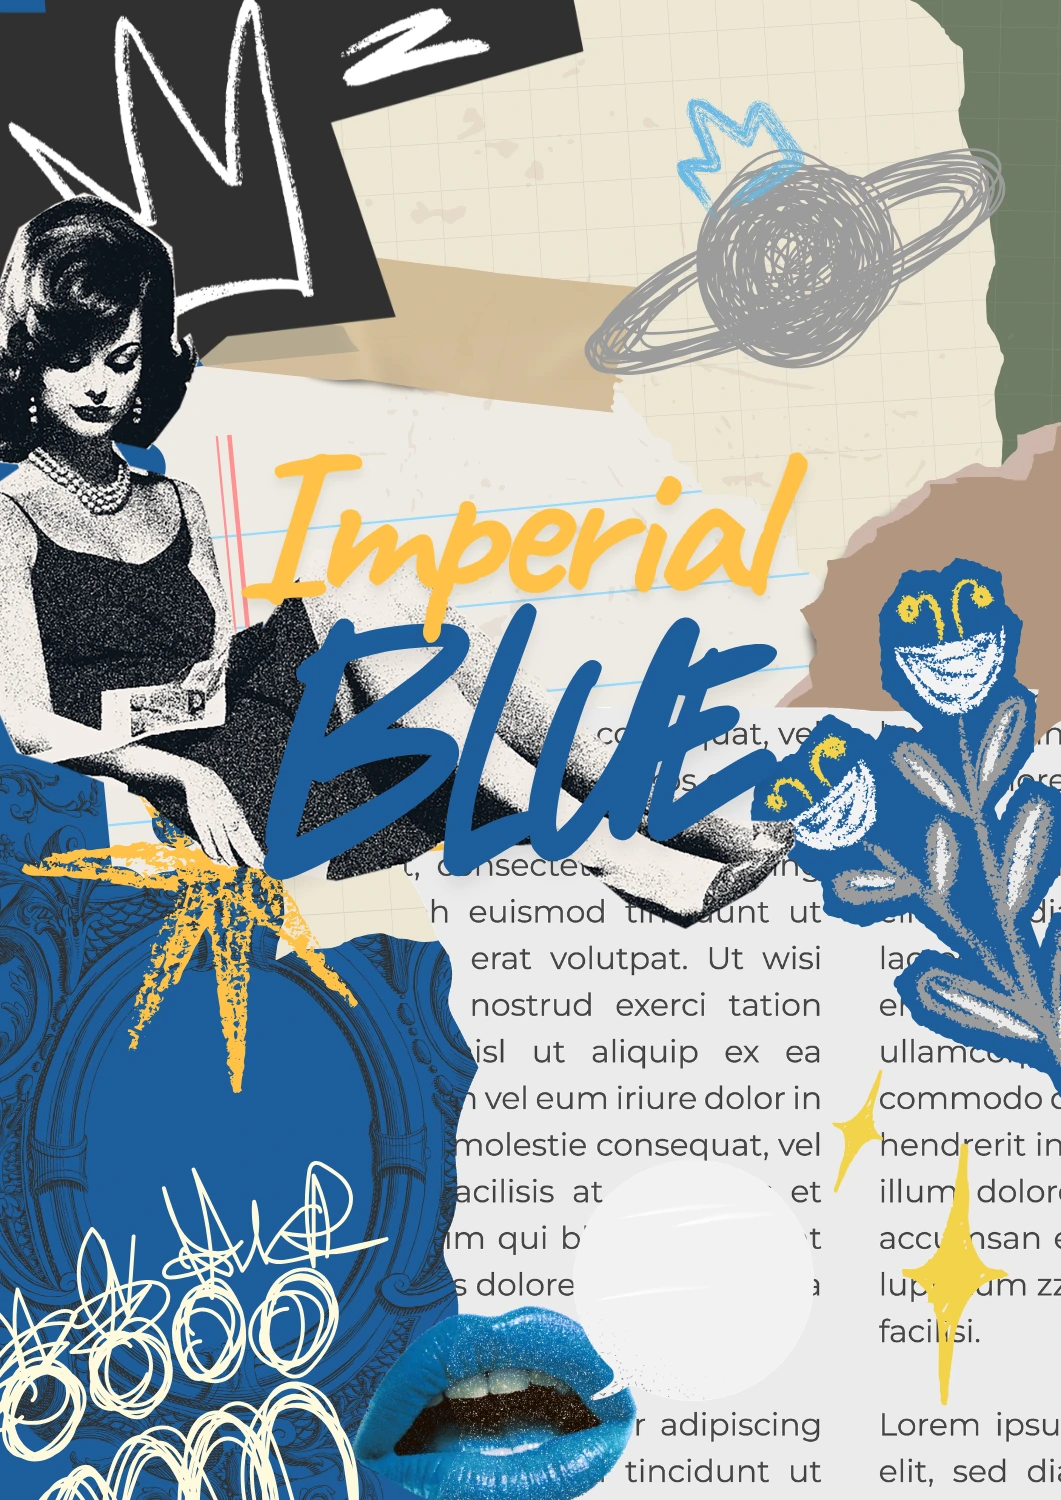
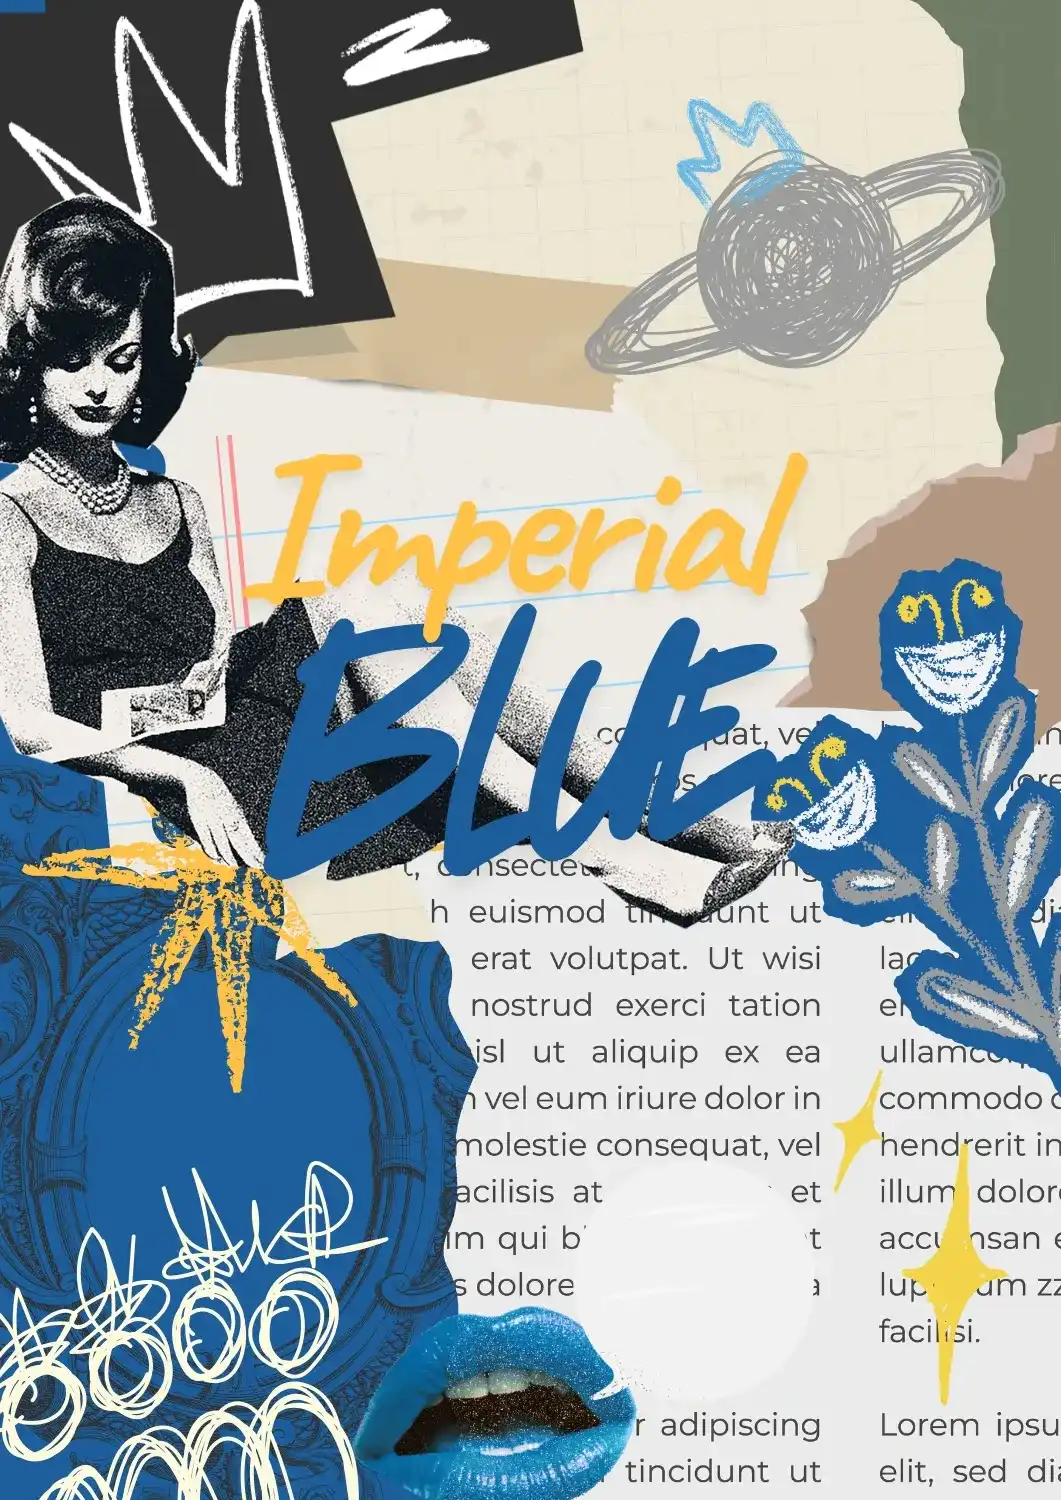
added color filtering and discount code activation

diff --git a/client/src/pages/AllProducts.css b/client/src/pages/AllProducts.css
@@ -423,6 +423,76 @@
     transform 0.3s cubic-bezier(0.25, 1, 0.5, 1);
 }
 
+/* --- COLOR SWATCHES --- */
+.color-swatch-grid {
+  display: grid;
+  grid-template-columns: repeat(4, 1fr);
+  gap: 14px 8px;
+}
+
+.color-swatch-btn {
+  display: flex;
+  flex-direction: column;
+  align-items: center;
+  gap: 7px;
+  background: transparent;
+  border: none;
+  cursor: pointer;
+  padding: 6px 2px;
+  border-radius: 8px;
+  transition: background 0.15s ease;
+}
+
+.color-swatch-btn:hover {
+  background: rgba(0, 0, 0, 0.04);
+}
+
+.swatch-dot {
+  width: 34px;
+  height: 34px;
+  border-radius: 50%;
+  display: block;
+  flex-shrink: 0;
+  /* Subtle inner ring keeps light swatches (white, beige, silver) visible */
+  box-shadow: inset 0 0 0 1px rgba(0, 0, 0, 0.14);
+  transition: box-shadow 0.18s ease, transform 0.18s ease;
+}
+
+/* Active: gold ring outside the dot */
+.color-swatch-btn.active .swatch-dot {
+  box-shadow:
+    inset 0 0 0 1px rgba(0, 0, 0, 0.14),
+    0 0 0 2.5px #fff,
+    0 0 0 4px var(--y2k-gold-dark);
+  transform: scale(1.1);
+}
+
+.swatch-label {
+  font-family: var(--y2k-marker);
+  font-size: 7px;
+  letter-spacing: 0.07em;
+  color: rgba(0, 0, 0, 0.5);
+  text-align: center;
+  text-transform: uppercase;
+  line-height: 1.3;
+  word-break: break-word;
+}
+
+.color-swatch-btn.active .swatch-label {
+  color: #000;
+  font-weight: 700;
+}
+
+/* Colors that have no matching products — shown but not interactive */
+.color-swatch-btn.unavailable {
+  opacity: 0.3;
+  cursor: not-allowed;
+}
+
+.color-swatch-btn.unavailable:hover {
+  background: transparent;
+}
+
 /* Empty state */
 .pdp-empty-state {
   font-family: var(--y2k-marker);

diff --git a/client/src/pages/AllProducts.jsx b/client/src/pages/AllProducts.jsx
@@ -6,6 +6,28 @@ import { SkeletonShopCard } from '../components/SkeletonCard';
 import useInView from '../hooks/useInView';
 import './AllProducts.css';
 
+const CANONICAL_COLORS = [
+  'white', 'yellow', 'orange', 'green', 'blue', 'pastel blue',
+  'purple', 'silver', 'pink', 'red', 'blood red', 'beige', 'gold', 'rose gold',
+];
+
+const COLOR_SWATCHES = {
+  'white':       '#FFFFFF',
+  'yellow':      '#F5D53E',
+  'orange':      '#E8802A',
+  'green':       '#3D9C57',
+  'blue':        '#2B6CB0',
+  'pastel blue': '#A8D1ED',
+  'purple':      '#7C3AED',
+  'silver':      '#A8A9AD',
+  'pink':        '#F472B6',
+  'red':         '#DC2626',
+  'blood red':   '#7B0000',
+  'beige':       '#E8D5B0',
+  'gold':        'linear-gradient(135deg, #C9961B 0%, #F5E17A 50%, #D4AF37 100%)',
+  'rose gold':   'linear-gradient(135deg, #B76E79 0%, #D4A5A5 50%, #C0817D 100%)',
+};
+
 const AllProducts = ({ allProducts, loading, fetchByCollection, fetchAllProducts }) => {
   const navigate = useNavigate();
   const [searchParams] = useSearchParams();
@@ -20,8 +42,21 @@ const AllProducts = ({ allProducts, loading, fetchByCollection, fetchAllProducts
 
   const [activeFilters, setActiveFilters] = useState({
     availability: [],
+    color: [],
     size: [],
   });
+
+  const availableColors = useMemo(() => {
+    const colorsInProducts = new Set(
+      (allProducts || []).flatMap(p => p.colors || [])
+    );
+    return CANONICAL_COLORS.filter(c => colorsInProducts.has(c));
+  }, [allProducts]);
+
+  const totalActiveFilters =
+    activeFilters.availability.length +
+    activeFilters.color.length +
+    activeFilters.size.length;
 
   useEffect(() => {
     const requestedCollection = searchParams.get('collection');
@@ -44,7 +79,7 @@ const AllProducts = ({ allProducts, loading, fetchByCollection, fetchAllProducts
   };
 
   const clearAllFilters = () => {
-    setActiveFilters({ availability: [], size: [] });
+    setActiveFilters({ availability: [], color: [], size: [] });
     setSearchTerm('');
   };
 
@@ -56,10 +91,12 @@ const AllProducts = ({ allProducts, loading, fetchByCollection, fetchAllProducts
           const hasStock = p.variants.some(v => v.stock > 0);
           return status === 'in-stock' ? hasStock : !hasStock;
         });
+      const matchesColor = activeFilters.color.length === 0 ||
+        (p.colors || []).some(c => activeFilters.color.includes(c));
       const matchesSize = activeFilters.size.length === 0 ||
         p.variants.some(v => activeFilters.size.includes(v.title));
 
-      return matchesSearch && matchesAvailability && matchesSize;
+      return matchesSearch && matchesAvailability && matchesColor && matchesSize;
     });
 
     if (sortBy === 'price-low') result.sort((a, b) => parseFloat(a.price) - parseFloat(b.price));
@@ -80,7 +117,7 @@ const AllProducts = ({ allProducts, loading, fetchByCollection, fetchAllProducts
         <div className="utility-inner">
           <div className="utility-left">
             <button className="pdp-filter-trigger" onClick={() => setIsSidebarOpen(true)}>
-              FILTERS
+              FILTERS{totalActiveFilters > 0 ? ` (${totalActiveFilters})` : ''}
             </button>
           </div>
 
@@ -125,6 +162,27 @@ const AllProducts = ({ allProducts, loading, fetchByCollection, fetchAllProducts
                   <input type="checkbox" checked={activeFilters.availability.includes('pre-order')} onChange={() => toggleFilter('availability', 'pre-order')} />
                   <span>MADE TO ORDER</span>
                 </label>
+              </div>
+
+              <div className="filter-section">
+                <h4 className="filter-label">COLOR</h4>
+                <div className="color-swatch-grid">
+                  {CANONICAL_COLORS.map(color => (
+                      <button
+                        key={color}
+                        className={`color-swatch-btn${activeFilters.color.includes(color) ? ' active' : ''}`}
+                        onClick={() => toggleFilter('color', color)}
+                        aria-label={`Filter by ${color}`}
+                        aria-pressed={activeFilters.color.includes(color)}
+                      >
+                        <span
+                          className="swatch-dot"
+                          style={{ background: COLOR_SWATCHES[color] || '#ccc' }}
+                        />
+                        <span className="swatch-label">{color}</span>
+                      </button>
+                  ))}
+                </div>
               </div>
 
               <div className="filter-section">

diff --git a/client/src/components/lib/queries.js b/client/src/components/lib/queries.js
@@ -8,6 +8,19 @@ export const GET_PRODUCTS_QUERY = `
           description
           descriptionHtml
           handle
+          tags
+          colorMetafield: metafield(namespace: "shopify", key: "color-pattern") {
+            value
+            references(first: 10) {
+              edges {
+                node {
+                  ... on Metaobject {
+                    handle
+                  }
+                }
+              }
+            }
+          }
           priceRange {
             minVariantPrice {
               amount
@@ -49,6 +62,19 @@ export const GET_COLLECTION_PRODUCTS = `
             handle
             description
             descriptionHtml
+            tags
+            colorMetafield: metafield(namespace: "shopify", key: "color-pattern") {
+              value
+              references(first: 10) {
+                edges {
+                  node {
+                    ... on Metaobject {
+                      handle
+                    }
+                  }
+                }
+              }
+            }
             priceRange {
               minVariantPrice {
                 amount

diff --git a/client/src/components/lib/shopify.js b/client/src/components/lib/shopify.js
@@ -1,5 +1,21 @@
 import { GET_PRODUCTS_QUERY, GET_SHOP_POLICIES, GET_COLLECTION_PRODUCTS } from './queries';
 
+
+// Parses the Category metafield `colorMetafield.value` into a lowercase string array.
+// Shopify returns metafield values as JSON-encoded strings, e.g.:
+//   '["Orange","Rose gold","Red"]' → ["orange","rose gold","red"]
+// Falls back to comma-splitting for plain (non-JSON) strings.
+const parseMetafieldColors = (rawValue) => {
+  if (!rawValue) return [];
+  try {
+    const parsed = JSON.parse(rawValue);
+    const items = Array.isArray(parsed) ? parsed : [String(parsed)];
+    return items.map(item => String(item).toLowerCase().trim()).filter(Boolean);
+  } catch {
+    return rawValue.split(',').map(s => s.toLowerCase().trim()).filter(Boolean);
+  }
+};
+
 /**
  * Appends Shopify CDN image transformation params.
  * Shopify CDN supports ?width=N&format=webp natively — no extra processing needed.
@@ -57,6 +73,16 @@ const transformShopifyProducts = (edges) =>
       stock: edge.node.quantityAvailable || 0,
       available: edge.node.availableForSale,
     })) || [],
+    colors: (() => {
+      const refEdges = node.colorMetafield?.references?.edges;
+      if (refEdges && refEdges.length > 0) {
+        return refEdges.map(edge =>
+          edge.node.handle.toLowerCase().replace(/-/g, ' ')
+        );
+      }
+
+      return parseMetafieldColors(node.colorMetafield?.value);
+    })(),
   }));
 
 export const fetchProductsByCollection = async (collectionHandle) => {

diff --git a/client/src/components/Navbar.jsx b/client/src/components/Navbar.jsx
@@ -187,9 +187,9 @@ const Navbar = ({ cartCount, onOpenCart, user, onOpenLogin, onLogout, forceSolid
               <div className="mega-column">
                 <h4 className="mega-col-title">SHOP BY LENGTH</h4>
                 <ul className="mega-list">
-                  <li onClick={() => {navigate('/shop?collection=short'); setOpenMenu(null);}}>SHORT SETS</li>
-                  <li onClick={() => {navigate('/shop?collection=medium'); setOpenMenu(null);}}>MEDIUM SETS</li>
-                  <li onClick={() => {navigate('/shop?collection=long'); setOpenMenu(null);}}>LONG SETS</li>
+                  <li onClick={() => {navigate('/shop'); setOpenMenu(null);}}>SHORT SETS</li>
+                  <li onClick={() => {navigate('/shop'); setOpenMenu(null);}}>MEDIUM SETS</li>
+                  <li onClick={() => {navigate('/shop'); setOpenMenu(null);}}>LONG SETS</li>
                 </ul>
               </div>
               <div className="mega-column">

diff --git a/client/src/components/LoyaltyPopup.jsx b/client/src/components/LoyaltyPopup.jsx
@@ -55,7 +55,7 @@ export default function LoyaltyPopup({onOpenAuth}) {
           <h2 className="cult-popup-title">THE ASTERI2K<br/>BLESSING</h2>
 
           <p className="cult-popup-incentive">
-            ENJOY <strong>฿200 OFF</strong> YOUR FIRST ORDER OVER ฿2,000.
+            ENJOY <strong>15% OFF</strong> YOUR FIRST ORDER OVER ฿1,000.
           </p>
 
           <p className="cult-popup-perks">